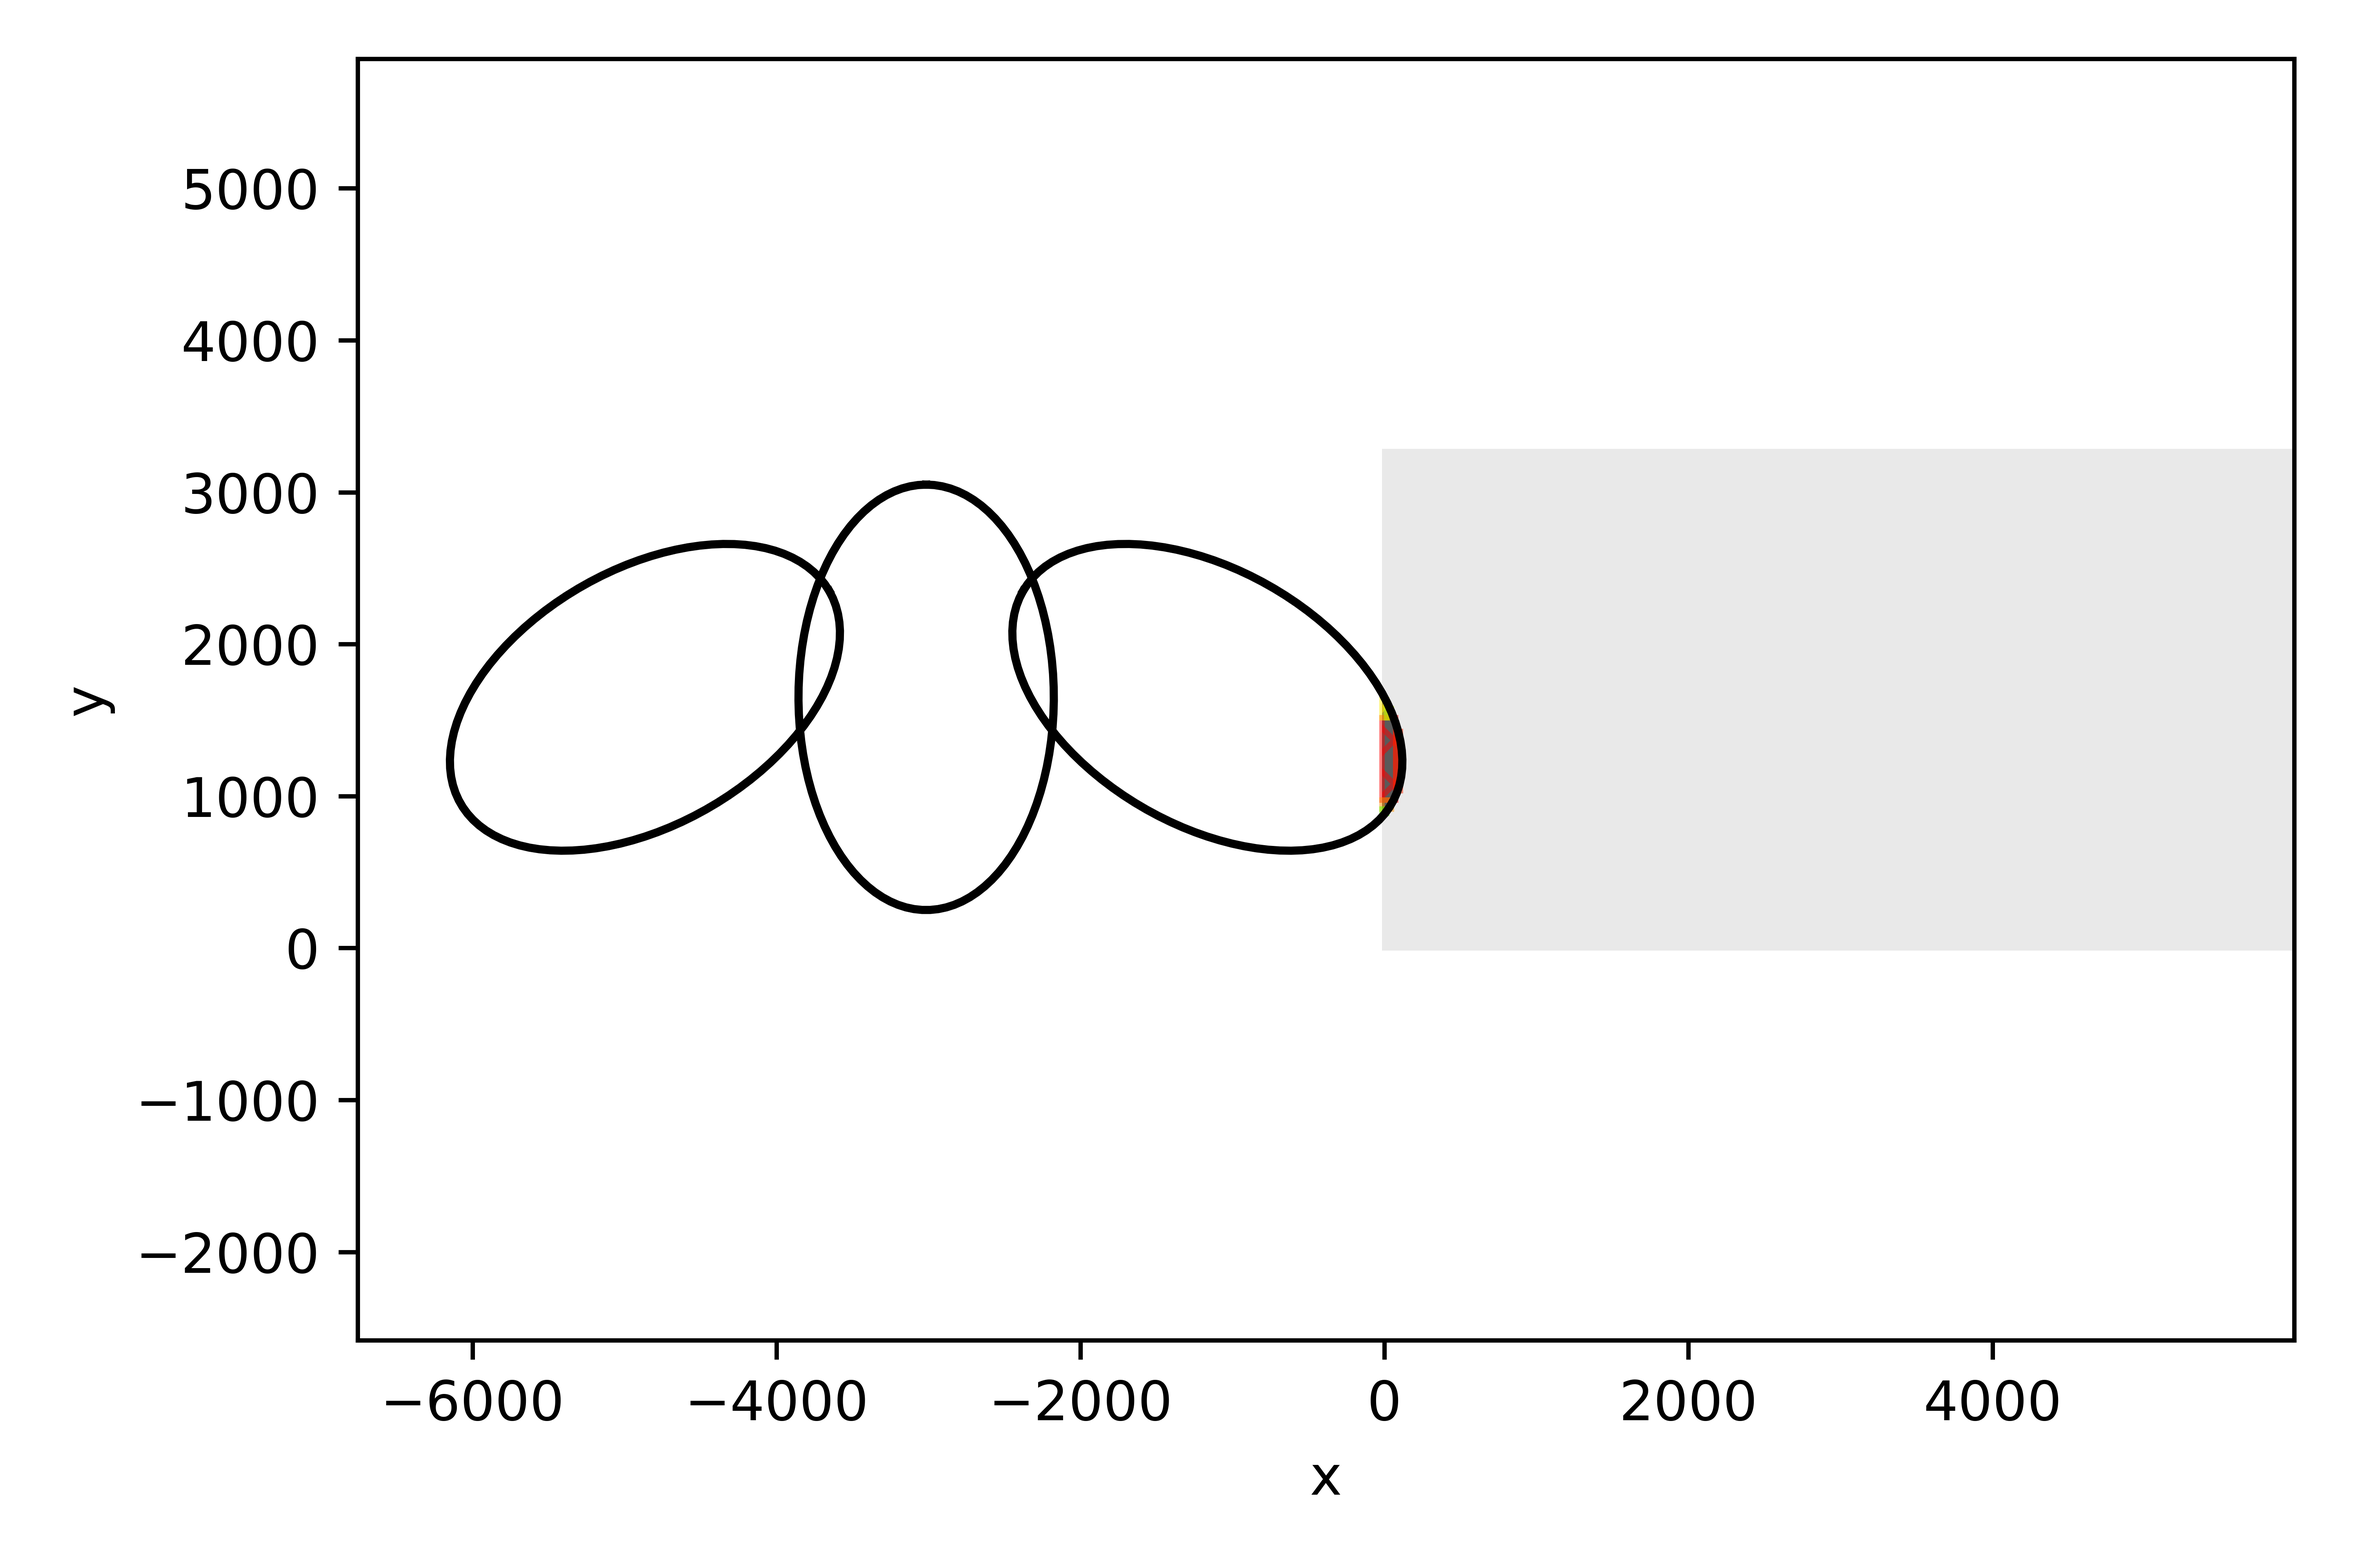
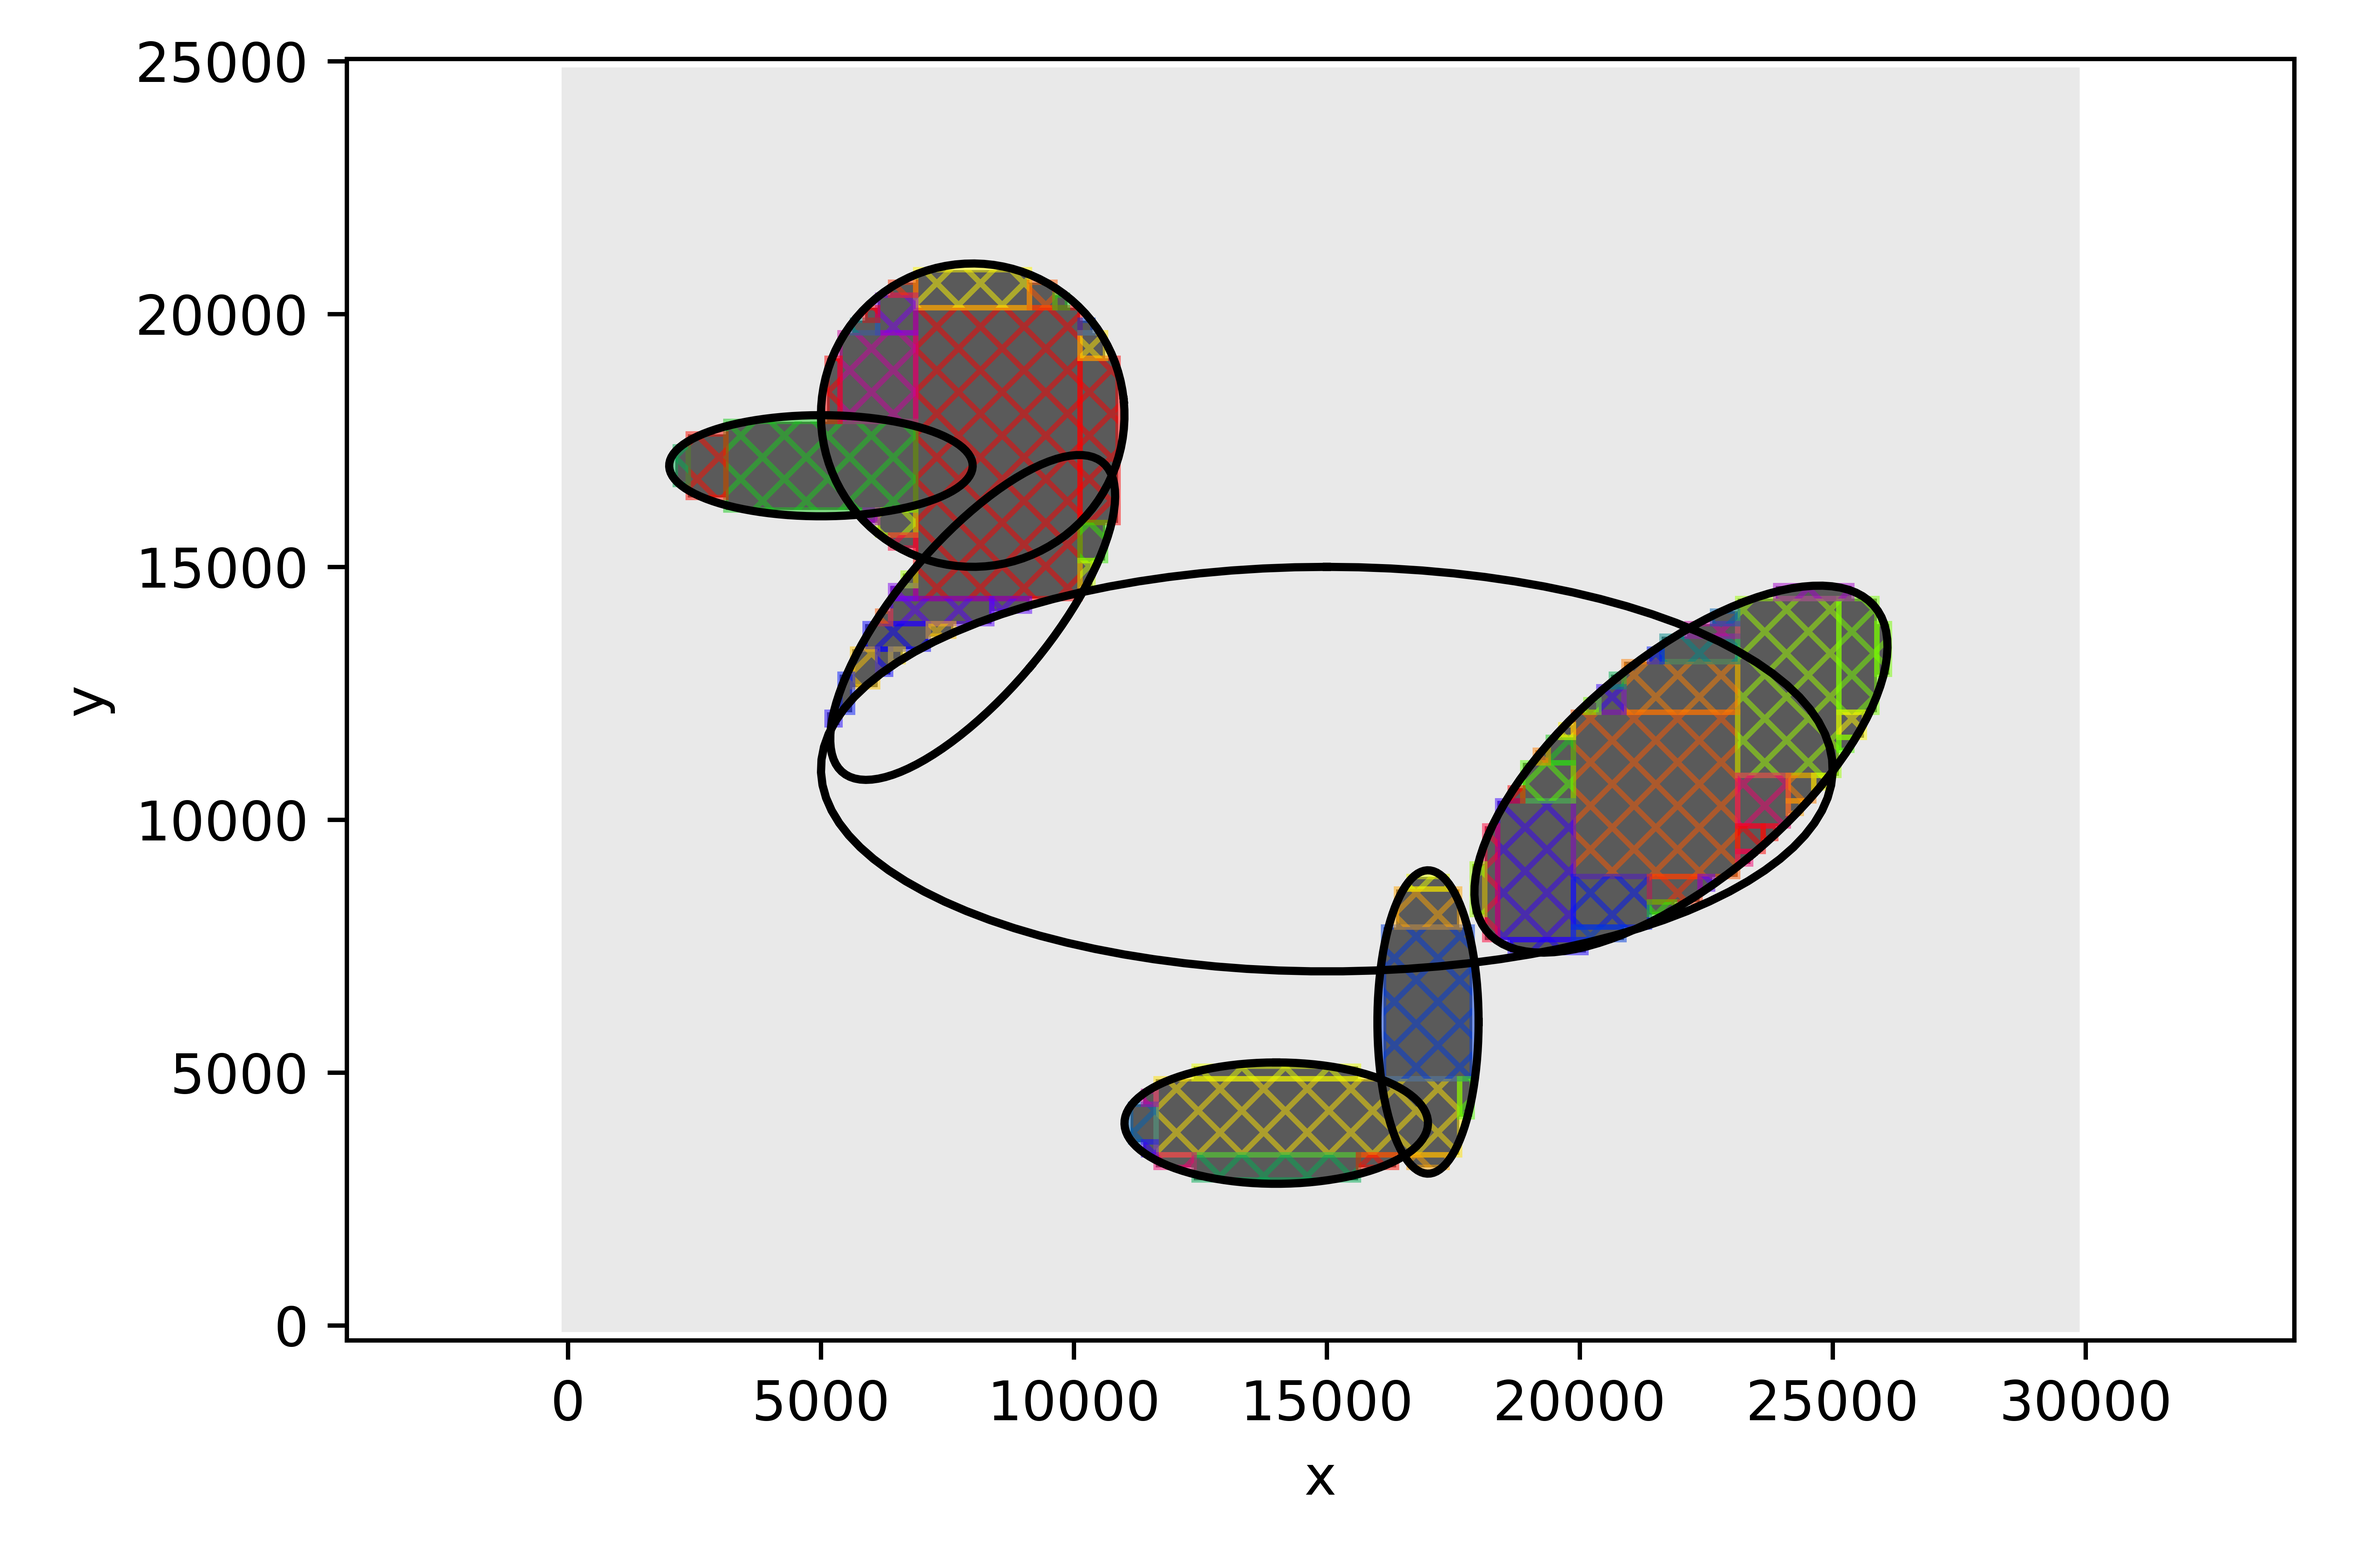
123

diff --git a/generate_pattern.py b/generate_pattern.py
@@ -7,8 +7,8 @@ import matplotlib.patches as patches
 
 # @nb.njit
 def circle(t, x0, y0, r):
-    x = r * np.cos(2 * np.pi * t) + x0
-    y = r * np.sin(2 * np.pi * t) + y0
+    x = r * np.cos(2 * np.pi * t +0.1) + x0
+    y = r * np.sin(2 * np.pi * t +0.1) + y0
     return x, y
 
 @nb.njit
@@ -88,16 +88,34 @@ class Pattern:
         y2 = self.y_ax[rec_coords[3]] + self.step_size / 2
         return np.array([x1, y1, x2, y2])
         
-    def add_parametrized_shape(self, parametrization, *args):
+    def add_parametrized_shape(self, parametrization, *args, boolean_operation="add"):
         self.shapes.append([parametrization, args])
         res = []
         parametrization_ = lambda t: parametrization(t, *args)
         for y in self.y_ax:
             res.append(points_in_closed_curve(self.x_ax, y, parametrization_))
         res = np.array(res, dtype=bool)
-        self.pattern = self.pattern | res
+        allowed_types = ["add", "subtract"]
+        if boolean_operation not in allowed_types:
+            raise Exception(f"Boolean operation {boolean_operation} not allowed. only {allowed_types} are valid.")
+        if boolean_operation == "add":
+            self.pattern = self.pattern | res
+        elif boolean_operation == "subtract":
+            self.pattern = self.pattern & ~res
         self.rects_updated = False
         self.pat_file_string_updated = False
+        
+    # def subtract_parametrized_shape(self, parametrization, *args):
+    #     self.shapes.append([parametrization, args])
+    #     res = []
+    #     parametrization_ = lambda t: parametrization(t, *args)
+    #     for y in self.y_ax:
+    #         res.append(points_in_closed_curve(self.x_ax, y, parametrization_))
+    #     res = np.array(res, dtype=bool)
+    #     self.pattern = self.pattern & ~res  # Use bitwise AND to subtract the shape
+    #     self.rects_updated = False
+    #     self.pat_file_string_updated = False
+
         
     def rectangulize(self):
         rects = rectangulize(self.pattern)
@@ -107,13 +125,17 @@ class Pattern:
         self.rects = translated_rects
         self.rects_updated = True
         
-    def export_pattern(self, complete=False, export=False):
+    def export_pattern(self, complete=False, export=False, offsetx=0, offsety=0):
         if not self.rects_updated:
             self.rectangulize()
         if not self.pat_file_string_updated:
             pat_string = ""
             for rect in self.rects:
                 rounded_rect = np.round(rect).astype(int)
+                rounded_rect[0] += offsetx
+                rounded_rect[1] += offsety
+                rounded_rect[2] += offsetx
+                rounded_rect[3] += offsety
                 pat_string += "RECT " + str(rounded_rect[0]) + ", " + str(rounded_rect[1]) + ", " + str(rounded_rect[2]) + ", " + str(rounded_rect[3]) + "\n"
             # if complete:
             #     pat_string = self.pattern_header + pat_string + "\nEND"
@@ -138,9 +160,9 @@ class Pattern:
 if __name__ == "__main__":
     pattern = Pattern(3e4, 2.5e4, 250)
     pattern.add_parametrized_shape(circle, 8e3, 18e3, 3e3)
-    pattern.add_parametrized_shape(ellipse, 1.5e4, 1.1e4, 0.4e4, 1e4, 90 / 180 * np.pi)
     pattern.add_parametrized_shape(ellipse, 8e3, 14e3, 0.15e4, 0.4e4, -40 / 180 * np.pi)
     pattern.add_parametrized_shape(ellipse, 5e3, 17e3, 0.1e4, 0.3e4, 90 / 180 * np.pi)
+    pattern.add_parametrized_shape(ellipse, 1.5e4, 1.1e4, 0.4e4, 1e4, 90 / 180 * np.pi, boolean_operation="subtract")
     pattern.add_parametrized_shape(ellipse, 17e3, 6e3, 1e3, 3e3, 0 / 180 * np.pi)
     pattern.add_parametrized_shape(ellipse, 14e3, 4e3, 1.2e3, 3e3, 90 / 180 * np.pi)
     pattern.add_parametrized_shape(ellipse, 22e3, 11e3, 2.2e3, 5e3, -50 / 180 * np.pi)

diff --git a/old/generate_pattern.py b/old/generate_pattern.py
@@ -7,8 +7,8 @@ import matplotlib.patches as patches
 
 # @nb.njit
 def circle(t, x0, y0, r):
-    x = r * np.cos(2 * np.pi * t +0.1) + x0
-    y = r * np.sin(2 * np.pi * t +0.1) + y0
+    x = r * np.cos(2 * np.pi * t) + x0
+    y = r * np.sin(2 * np.pi * t) + y0
     return x, y
 
 @nb.njit
@@ -88,31 +88,16 @@ class Pattern:
         y2 = self.y_ax[rec_coords[3]] + self.step_size / 2
         return np.array([x1, y1, x2, y2])
         
-    def add_parametrized_shape(self, parametrization, *args, boolean_operation="add"):
+    def add_parametrized_shape(self, parametrization, *args):
         self.shapes.append([parametrization, args])
         res = []
         parametrization_ = lambda t: parametrization(t, *args)
         for y in self.y_ax:
             res.append(points_in_closed_curve(self.x_ax, y, parametrization_))
         res = np.array(res, dtype=bool)
-        if boolean_operation == "add":
-            self.pattern = self.pattern | res
-        elif boolean_operation == "subtract":
-            self.pattern = self.pattern & ~res
+        self.pattern = self.pattern | res
         self.rects_updated = False
         self.pat_file_string_updated = False
-        
-    # def subtract_parametrized_shape(self, parametrization, *args):
-    #     self.shapes.append([parametrization, args])
-    #     res = []
-    #     parametrization_ = lambda t: parametrization(t, *args)
-    #     for y in self.y_ax:
-    #         res.append(points_in_closed_curve(self.x_ax, y, parametrization_))
-    #     res = np.array(res, dtype=bool)
-    #     self.pattern = self.pattern & ~res  # Use bitwise AND to subtract the shape
-    #     self.rects_updated = False
-    #     self.pat_file_string_updated = False
-
         
     def rectangulize(self):
         rects = rectangulize(self.pattern)
@@ -122,17 +107,13 @@ class Pattern:
         self.rects = translated_rects
         self.rects_updated = True
         
-    def export_pattern(self, complete=False, export=False, offsetx=0, offsety=0):
+    def export_pattern(self, complete=False, export=False):
         if not self.rects_updated:
             self.rectangulize()
         if not self.pat_file_string_updated:
             pat_string = ""
             for rect in self.rects:
                 rounded_rect = np.round(rect).astype(int)
-                rounded_rect[0] += offsetx
-                rounded_rect[1] += offsety
-                rounded_rect[2] += offsetx
-                rounded_rect[3] += offsety
                 pat_string += "RECT " + str(rounded_rect[0]) + ", " + str(rounded_rect[1]) + ", " + str(rounded_rect[2]) + ", " + str(rounded_rect[3]) + "\n"
             # if complete:
             #     pat_string = self.pattern_header + pat_string + "\nEND"
